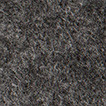
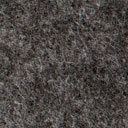
Feat: Updates libraries and adds them to seeyond
- adds new images that are 128x128 to improve the material texture code

diff --git a/src/app/seeyond/design/design.component.ts b/src/app/seeyond/design/design.component.ts
@@ -10,7 +10,7 @@ export class DesignComponent implements OnInit {
   // tooltip position
   position = 'above';
   // Selected Defaults
-  selectedTessellation = this.feature.tessellation? this.feature.tessellation : 'billow';
+  selectedTessellation = 'billow';
   selectedMaterial = 'burnt_umber';
   patternStrength = this.feature.patternStrength? this.feature.patternStrength : 3;
   strengths = [1,2,3,4,5,6,7,8,9,10];
@@ -57,46 +57,47 @@ export class DesignComponent implements OnInit {
   public updateSelectedMaterial(material: string) {
     console.log(material);
     this.selectedMaterial = material;
-    // image file not working yet?
-    // this.feature.material = '/assets/images/materials/' + material + '.jpg';
+    // image file path
+    this.feature.material = '/assets/images/materials/' + material + '.jpg';
     // pantone backup
-    switch (material) {
-      case "burnt_umber":
-        this.feature.material = 0x5C4738;
-        break;
+    // switch (material) {
+    //   // 7589 U
+    //   case "burnt_umber":
+    //     this.feature.material = 0x5C4738;
+    //     break;
+    //   // 7529 U
+    //   case "cashmere":
+    //     this.feature.material = 0xB7A99A;
+    //     break;
+    //   // 2334 U
+    //   case "cast":
+    //     this.feature.material = 0x6C6463;
+    //     break;
+    //   // Cool Gray 11 U
+    //   case "dark_gray":
+    //     this.feature.material = 0x53565A;
+    //     break;
+    //   // Black U
+    //   case "ebony":
+    //     this.feature.material = 0x2D2926;
+    //     break;
+    //   // 427 U
+    //   case "nickel":
+    //     this.feature.material = 0xD0D3D4;
+    //     break;
+    //   // 418 U
+    //   case "ore":
+    //     this.feature.material = 0x51534A;
+    //     break;
+    //   // Warm Gray 1 CP
+    //   case "zinc":
+    //     this.feature.material = 0xD7D2CB;
+    //     break;
 
-      case "cashmere":
-        this.feature.material = 0xB7A99A;
-        break;
-
-      case "cast":
-        this.feature.material = 0x6C6463;
-        break;
-
-      case "dark_gray":
-        this.feature.material = 0x53565A;
-        break;
-
-      case "ebony":
-        this.feature.material = 0x2D2926;
-        break;
-
-      case "nickel":
-        this.feature.material = 0xD0D3D4;
-        break;
-
-      case "ore":
-        this.feature.material = 0x51534A;
-        break;
-
-      case "zinc":
-        this.feature.material = 0xD7D2CB;
-        break;
-
-      default:
-        alert(material + " is not a supported material");
-        break;
-    }
+    //   default:
+    //     alert(material + " is not a supported material");
+    //     break;
+    // }
 
     // update the visualization
     this.feature.reloadVisualization()

diff --git a/src/app/seeyond/header/header.component.ts b/src/app/seeyond/header/header.component.ts
@@ -1,5 +1,5 @@
 import { Component, OnInit } from '@angular/core';
-import { MdDialog, MdDialogRef } from '@angular/material';
+import { MdDialog, MdDialogRef, MdDialogConfig } from '@angular/material';
 import { Feature } from '../feature';
 
 var packageJSON = require('../../../../package.json');
@@ -16,29 +16,48 @@ export class HeaderComponent implements OnInit {
   ngOnInit() {
   }
 
-  showAppInfo()
+  public showAppInfo()
   {
-    console.log('showing app info');
-    let dialogRef = this.dialog.open(AppInfoDialog);
+    console.log('showing seeyond info');
+    let dialogRef = this.dialog.open(SeeyondInfoDialog);
+  }
+
+  public loginDialog()
+  {
+    console.log('showing login dialog');
+    let config = new MdDialogConfig();
+    config.width = '500';
+    config.height = '500';
+    let dialogRef = this.dialog.open(SeeyondLoginDialog, config);
   }
 
 }
 
 @Component({
   selector: 'seeyond-info-dialog',
-  templateUrl: './app-info-dialog.html',
+  templateUrl: './seeyond-info-dialog.html',
   styles: [
     ".versions-container { width: 300px; }"
   ]
 })
-export class AppInfoDialog {
+export class SeeyondInfoDialog {
   appVersion = '';
   tessellationVersion = '';
   visualizationVersion = '';
-  constructor(public dialogRef: MdDialogRef<AppInfoDialog>) {
-    console.log(packageJSON);
+  constructor(public dialogRef: MdDialogRef<SeeyondInfoDialog>) {
     this.appVersion = packageJSON.version;
     this.tessellationVersion = packageJSON.dependencies['syd-tessellation'];
     this.visualizationVersion = packageJSON.dependencies['syd-visualization'];
+  }
+}
+
+
+@Component({
+  selector: 'seeyond-login-dialog',
+  templateUrl: './seeyond-login-dialog.html',
+})
+export class SeeyondLoginDialog {
+  constructor(public dialogRef: MdDialogRef<SeeyondLoginDialog>) {
+
   }
 }

diff --git a/src/app/app.module.ts b/src/app/app.module.ts
@@ -15,7 +15,7 @@ import { AppComponent } from './app.component';
 import { SeeyondComponent } from './seeyond/seeyond.component';
 import { PageNotFoundComponent } from './page-not-found/page-not-found.component';
 import { OptionsComponent } from './seeyond/options/options.component';
-import { HeaderComponent, AppInfoDialog } from './seeyond/header/header.component';
+import { HeaderComponent, SeeyondInfoDialog, SeeyondLoginDialog } from './seeyond/header/header.component';
 import { VisualizationComponent } from './seeyond/visualization/visualization.component';
 import { ActionsComponent } from './seeyond/actions/actions.component';
 import { NavigationComponent } from './seeyond/navigation/navigation.component';
@@ -37,7 +37,8 @@ import { Feature } from './seeyond/feature';
     NavigationComponent,
     DimensionsComponent,
     DesignComponent,
-    AppInfoDialog,
+    SeeyondInfoDialog,
+    SeeyondLoginDialog
   ],
   imports: [
     BrowserModule,
@@ -51,7 +52,8 @@ import { Feature } from './seeyond/feature';
   ],
   bootstrap: [AppComponent],
   entryComponents: [
-    AppInfoDialog
+    SeeyondInfoDialog,
+    SeeyondLoginDialog
   ],
 })
 export class AppModule { }

diff --git a/src/app/seeyond/feature.ts b/src/app/seeyond/feature.ts
@@ -7,9 +7,8 @@ export class Feature {
   public title: string = '';
   public image: string = '';
   public measurements: any = [];
-  // public material: string = '/assets/images/materials/burnt_umber.jpg';
-  public material: number = 0x5C4738;
-  public tessellation: number = 0;
+  public material: string = '/assets/images/materials/burnt_umber.jpg';
+  public tessellation: number = 4;
   public patternStrength: number = 3;
   public syd_v: any = {};
   public syd_t: any = {};

diff --git a/src/app/seeyond/header/seeyond-login-dialog.html b/src/app/seeyond/header/seeyond-login-dialog.html
@@ -1,0 +1,14 @@
+<form>
+  <div class="col-sm-12">
+    <div class="form-group">
+      <md-input-container class="">
+        <input md-input placeholder="Email" type="email" name="email" id="email">
+      </md-input-container>
+    </div>
+    <div class="form-group">
+      <md-input-container class="example-full-width">
+        <input md-input placeholder="Password" type="password" name="password" id="password">
+      </md-input-container>
+    </div>
+  </div>
+</form>

diff --git a/src/app/seeyond/header/header.component.html b/src/app/seeyond/header/header.component.html
@@ -1,7 +1,7 @@
 <div id="header" class="header">
 	<h1 class="title">{{feature?.title}}</h1>
 	<ul class="pull-right">
-		<li><a href="#" class="login">Login to Account</a></li>
+		<li><button md-button (click)="loginDialog()" class="login"><i class="material-icons">account_circle</i> Login to Account</button></li>
     <li><button md-button (click)="showAppInfo()"><i class="material-icons">info_outline</i></button></li>
 	</ul>
 </div>
